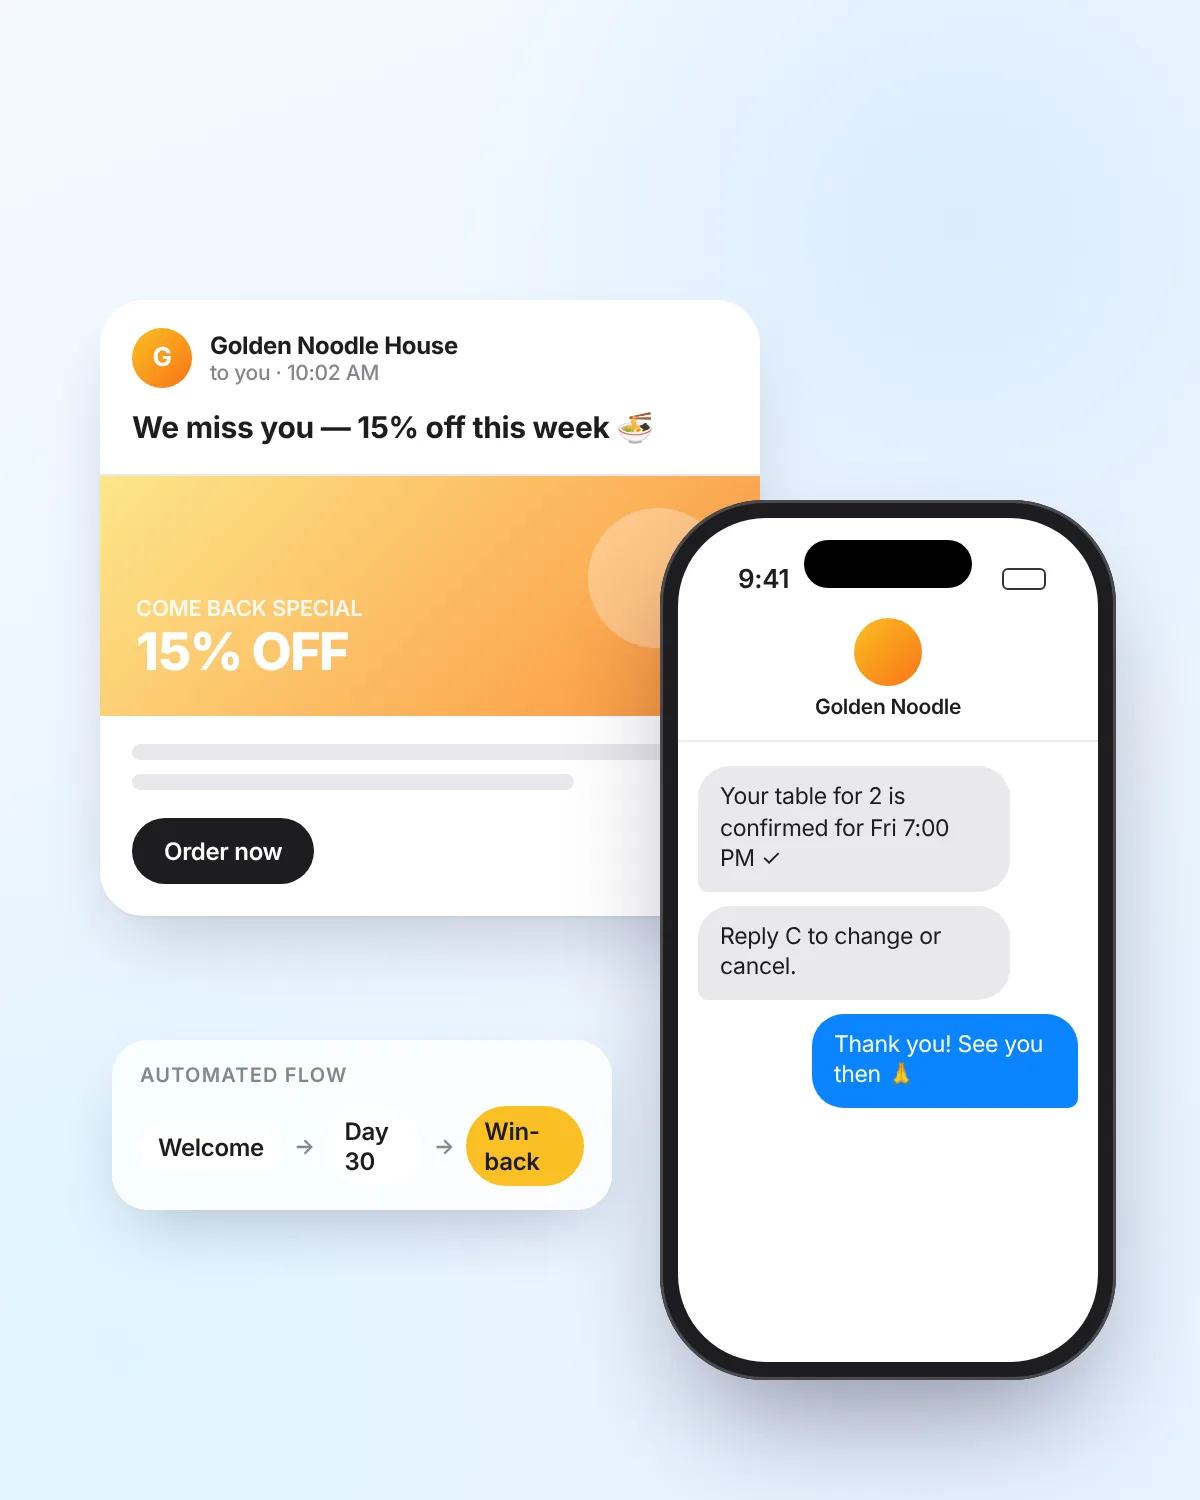
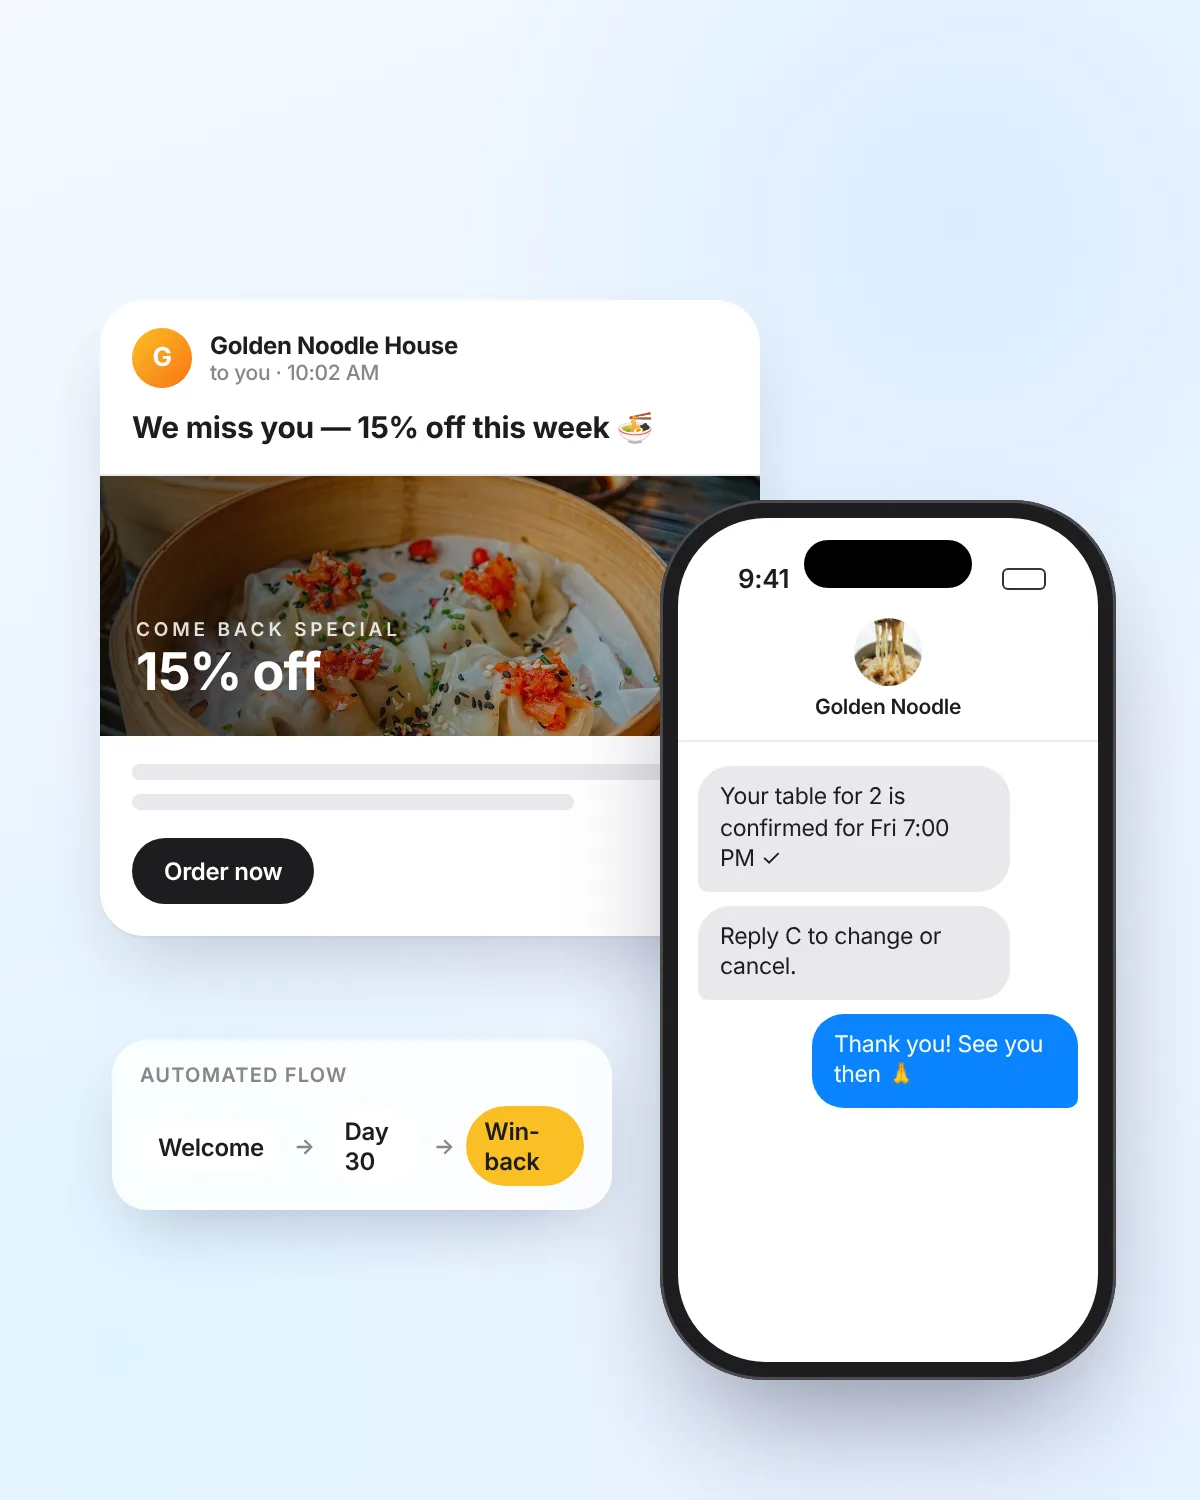
Use real food photography in social, email, holiday and menu illustrations
Claude-Session: https://claude.ai/code/session_01Cmog4efrXzxGYNqZwkQE96

Changed region(s): [[0.0617, 0.3067, 0.6475, 0.4907], [0.0617, 0.5213, 0.555, 0.644], [0.7092, 0.3987, 0.7708, 0.46]]

diff --git a/services-data.js b/services-data.js
@@ -48,7 +48,7 @@
                      L('Weekly optimization and new ad tests', '每周优化与新素材测试'),
                      L('Monthly report in English or Chinese', '中文或英文月度报告')],
           price: { from: 800, unit: 'mo' }, note: L('Google and Meta together $1,300/mo', 'Google + Meta 双平台 $1,300/月') },
-        { id: 'social', short: L('Social', '社媒'),  icon: 'share', img: 'images/services/social.webp?v=2', plan: 'social-mgmt', chiclet: true,
+        { id: 'social', short: L('Social', '社媒'),  icon: 'share', img: 'images/services/social.webp?v=3', plan: 'social-mgmt', chiclet: true,
           name: L('Social media', '社交媒体运营'),
           desc: L('Posting, captions and replies on Instagram, Facebook, TikTok and Xiaohongshu.',
                   'Instagram、Facebook、TikTok 和小红书的发布、文案与互动。'),
@@ -56,7 +56,7 @@
                      L('Captions in English and Chinese', '中英文文案'),
                      L('Comment and DM replies', '评论与私信回复')],
           price: { from: 500, unit: 'mo' }, note: L('Content creation +$500, full package $900/mo', '内容制作另加 $500，全包 $900/月') },
-        { id: 'email-sms', short: L('Email', '邮件'),  icon: 'mail', img: 'images/services/email-sms.webp?v=2', plan: 'email-starter', chiclet: true,
+        { id: 'email-sms', short: L('Email', '邮件'),  icon: 'mail', img: 'images/services/email-sms.webp?v=3', plan: 'email-starter', chiclet: true,
           name: L('Email & SMS', '邮件与短信营销'),
           desc: L('Campaigns and automated flows that keep in touch with past customers.',
                   '用营销邮件和自动化流程，和老客人保持联系。'),
@@ -102,7 +102,7 @@
                      L('Every size each platform needs', '各平台需要的尺寸全部做齐'),
                      L('English and Chinese versions', '中英文两个版本')],
           price: { from: 400, unit: 'mo' }, note: L('16 images $700/mo · single image $75', '16 张 $700/月 · 单张 $75') },
-        { id: 'holiday-promo', short: L('Holiday Promos', '节日促销'), icon: 'gift', img: 'images/services/holiday-promo.webp', plan: 'holiday-promo', chiclet: true,
+        { id: 'holiday-promo', short: L('Holiday Promos', '节日促销'), icon: 'gift', img: 'images/services/holiday-promo.webp?v=3', plan: 'holiday-promo', chiclet: true,
           name: L('Holiday promotion kit', '节日促销活动包'),
           desc: L('One holiday campaign designed across every channel: Lunar New Year, Mid-Autumn, Thanksgiving, Mother’s Day and more.',
                   '一个节日活动，所有渠道一起做好：春节、中秋、感恩节、母亲节等。'),
@@ -110,7 +110,7 @@
                      L('Instagram and Facebook posts in English and Chinese', 'Instagram 与 Facebook 中英文帖子'),
                      L('SMS and email copy for your customer list', '发给老客人的短信与邮件文案')],
           price: { from: 300, unit: 'campaign' }, note: L('Book about three weeks before the holiday', '建议节日前三周预订') },
-        { id: 'menu-poster', short: L('Menus & Posters', '菜单海报'), icon: 'menu', img: 'images/services/menu-poster.webp', plan: 'menu-poster', chiclet: true,
+        { id: 'menu-poster', short: L('Menus & Posters', '菜单海报'), icon: 'menu', img: 'images/services/menu-poster.webp?v=3', plan: 'menu-poster', chiclet: true,
           name: L('Menu and poster design', '菜单与海报设计'),
           desc: L('Bilingual menus, table QR stands and in-store posters, delivered as print-ready files.',
                   '中英双语菜单、桌面扫码点餐牌和店内海报，交付可直接印刷的文件。'),

diff --git a/index.html b/index.html
@@ -23,7 +23,7 @@
   <link rel="preconnect" href="https://fonts.gstatic.com" crossorigin>
   <link rel="stylesheet" href="https://fonts.googleapis.com/css2?family=Inter:wght@400;500;600;700;800&family=Noto+Sans+SC:wght@400;500;700&display=swap">
 
-  <link rel="stylesheet" href="styles.css?v=20261024f" />
+  <link rel="stylesheet" href="styles.css?v=20261024g" />
 </head>
 <body data-page="home">
   <a class="skip" href="#main">Skip to content</a>
@@ -335,10 +335,10 @@
   <script src="https://cdnjs.cloudflare.com/ajax/libs/gsap/3.12.5/gsap.min.js"></script>
   <script src="https://cdnjs.cloudflare.com/ajax/libs/gsap/3.12.5/ScrollTrigger.min.js"></script>
   <script src="https://cdn.jsdelivr.net/npm/lenis@1.1.13/dist/lenis.min.js"></script>
-  <script src="services-data.js?v=20261024f"></script>
-  <script src="apps-showcase.js?v=20261024f"></script>
-  <script src="site.js?v=20261024f"></script>
-  <script src="app.js?v=20261024f"></script>
-  <script src="motion.js?v=20261024f"></script>
+  <script src="services-data.js?v=20261024g"></script>
+  <script src="apps-showcase.js?v=20261024g"></script>
+  <script src="site.js?v=20261024g"></script>
+  <script src="app.js?v=20261024g"></script>
+  <script src="motion.js?v=20261024g"></script>
 </body>
 </html>

diff --git a/apps.html b/apps.html
@@ -18,7 +18,7 @@
   <link rel="preconnect" href="https://fonts.googleapis.com">
   <link rel="preconnect" href="https://fonts.gstatic.com" crossorigin>
   <link rel="stylesheet" href="https://fonts.googleapis.com/css2?family=Inter:wght@400;500;600;700;800&family=Noto+Sans+SC:wght@400;500;700&display=swap">
-  <link rel="stylesheet" href="styles.css?v=20261024f" />
+  <link rel="stylesheet" href="styles.css?v=20261024g" />
 </head>
 <body data-page="apps">
   <a class="skip" href="#page">Skip to content</a>
@@ -29,9 +29,9 @@
   <script src="https://cdnjs.cloudflare.com/ajax/libs/gsap/3.12.5/gsap.min.js"></script>
   <script src="https://cdnjs.cloudflare.com/ajax/libs/gsap/3.12.5/ScrollTrigger.min.js"></script>
   <script src="https://cdn.jsdelivr.net/npm/lenis@1.1.13/dist/lenis.min.js"></script>
-  <script src="services-data.js?v=20261024f"></script>
-  <script src="apps-showcase.js?v=20261024f"></script>
-  <script src="site.js?v=20261024f"></script>
-  <script src="page.js?v=20261024f"></script>
+  <script src="services-data.js?v=20261024g"></script>
+  <script src="apps-showcase.js?v=20261024g"></script>
+  <script src="site.js?v=20261024g"></script>
+  <script src="page.js?v=20261024g"></script>
 </body>
 </html>

diff --git a/marketing.html b/marketing.html
@@ -18,7 +18,7 @@
   <link rel="preconnect" href="https://fonts.googleapis.com">
   <link rel="preconnect" href="https://fonts.gstatic.com" crossorigin>
   <link rel="stylesheet" href="https://fonts.googleapis.com/css2?family=Inter:wght@400;500;600;700;800&family=Noto+Sans+SC:wght@400;500;700&display=swap">
-  <link rel="stylesheet" href="styles.css?v=20261024f" />
+  <link rel="stylesheet" href="styles.css?v=20261024g" />
 </head>
 <body data-page="marketing">
   <a class="skip" href="#page">Skip to content</a>
@@ -29,8 +29,8 @@
   <script src="https://cdnjs.cloudflare.com/ajax/libs/gsap/3.12.5/gsap.min.js"></script>
   <script src="https://cdnjs.cloudflare.com/ajax/libs/gsap/3.12.5/ScrollTrigger.min.js"></script>
   <script src="https://cdn.jsdelivr.net/npm/lenis@1.1.13/dist/lenis.min.js"></script>
-  <script src="services-data.js?v=20261024f"></script>
-  <script src="site.js?v=20261024f"></script>
-  <script src="page.js?v=20261024f"></script>
+  <script src="services-data.js?v=20261024g"></script>
+  <script src="site.js?v=20261024g"></script>
+  <script src="page.js?v=20261024g"></script>
 </body>
 </html>

diff --git a/creative.html b/creative.html
@@ -18,7 +18,7 @@
   <link rel="preconnect" href="https://fonts.googleapis.com">
   <link rel="preconnect" href="https://fonts.gstatic.com" crossorigin>
   <link rel="stylesheet" href="https://fonts.googleapis.com/css2?family=Inter:wght@400;500;600;700;800&family=Noto+Sans+SC:wght@400;500;700&display=swap">
-  <link rel="stylesheet" href="styles.css?v=20261024f" />
+  <link rel="stylesheet" href="styles.css?v=20261024g" />
 </head>
 <body data-page="creative">
   <a class="skip" href="#page">Skip to content</a>
@@ -29,8 +29,8 @@
   <script src="https://cdnjs.cloudflare.com/ajax/libs/gsap/3.12.5/gsap.min.js"></script>
   <script src="https://cdnjs.cloudflare.com/ajax/libs/gsap/3.12.5/ScrollTrigger.min.js"></script>
   <script src="https://cdn.jsdelivr.net/npm/lenis@1.1.13/dist/lenis.min.js"></script>
-  <script src="services-data.js?v=20261024f"></script>
-  <script src="site.js?v=20261024f"></script>
-  <script src="page.js?v=20261024f"></script>
+  <script src="services-data.js?v=20261024g"></script>
+  <script src="site.js?v=20261024g"></script>
+  <script src="page.js?v=20261024g"></script>
 </body>
 </html>

diff --git a/privacy.html b/privacy.html
@@ -11,7 +11,7 @@
   <link rel="preconnect" href="https://fonts.googleapis.com">
   <link rel="preconnect" href="https://fonts.gstatic.com" crossorigin>
   <link rel="stylesheet" href="https://fonts.googleapis.com/css2?family=Inter:wght@400;500;600;700;800&family=Noto+Sans+SC:wght@400;500;700&display=swap">
-  <link rel="stylesheet" href="styles.css?v=20261024f" />
+  <link rel="stylesheet" href="styles.css?v=20261024g" />
 </head>
 <body data-page="legal">
   <a class="skip" href="#page">Skip to content</a>
@@ -74,7 +74,7 @@
   </main>
   <footer class="footer" id="siteFooter"></footer>
 
-  <script src="services-data.js?v=20261024f"></script>
-  <script src="site.js?v=20261024f"></script>
+  <script src="services-data.js?v=20261024g"></script>
+  <script src="site.js?v=20261024g"></script>
 </body>
 </html>

diff --git a/terms.html b/terms.html
@@ -11,7 +11,7 @@
   <link rel="preconnect" href="https://fonts.googleapis.com">
   <link rel="preconnect" href="https://fonts.gstatic.com" crossorigin>
   <link rel="stylesheet" href="https://fonts.googleapis.com/css2?family=Inter:wght@400;500;600;700;800&family=Noto+Sans+SC:wght@400;500;700&display=swap">
-  <link rel="stylesheet" href="styles.css?v=20261024f" />
+  <link rel="stylesheet" href="styles.css?v=20261024g" />
 </head>
 <body data-page="legal">
   <a class="skip" href="#page">Skip to content</a>
@@ -84,7 +84,7 @@
   </main>
   <footer class="footer" id="siteFooter"></footer>
 
-  <script src="services-data.js?v=20261024f"></script>
-  <script src="site.js?v=20261024f"></script>
+  <script src="services-data.js?v=20261024g"></script>
+  <script src="site.js?v=20261024g"></script>
 </body>
 </html>
